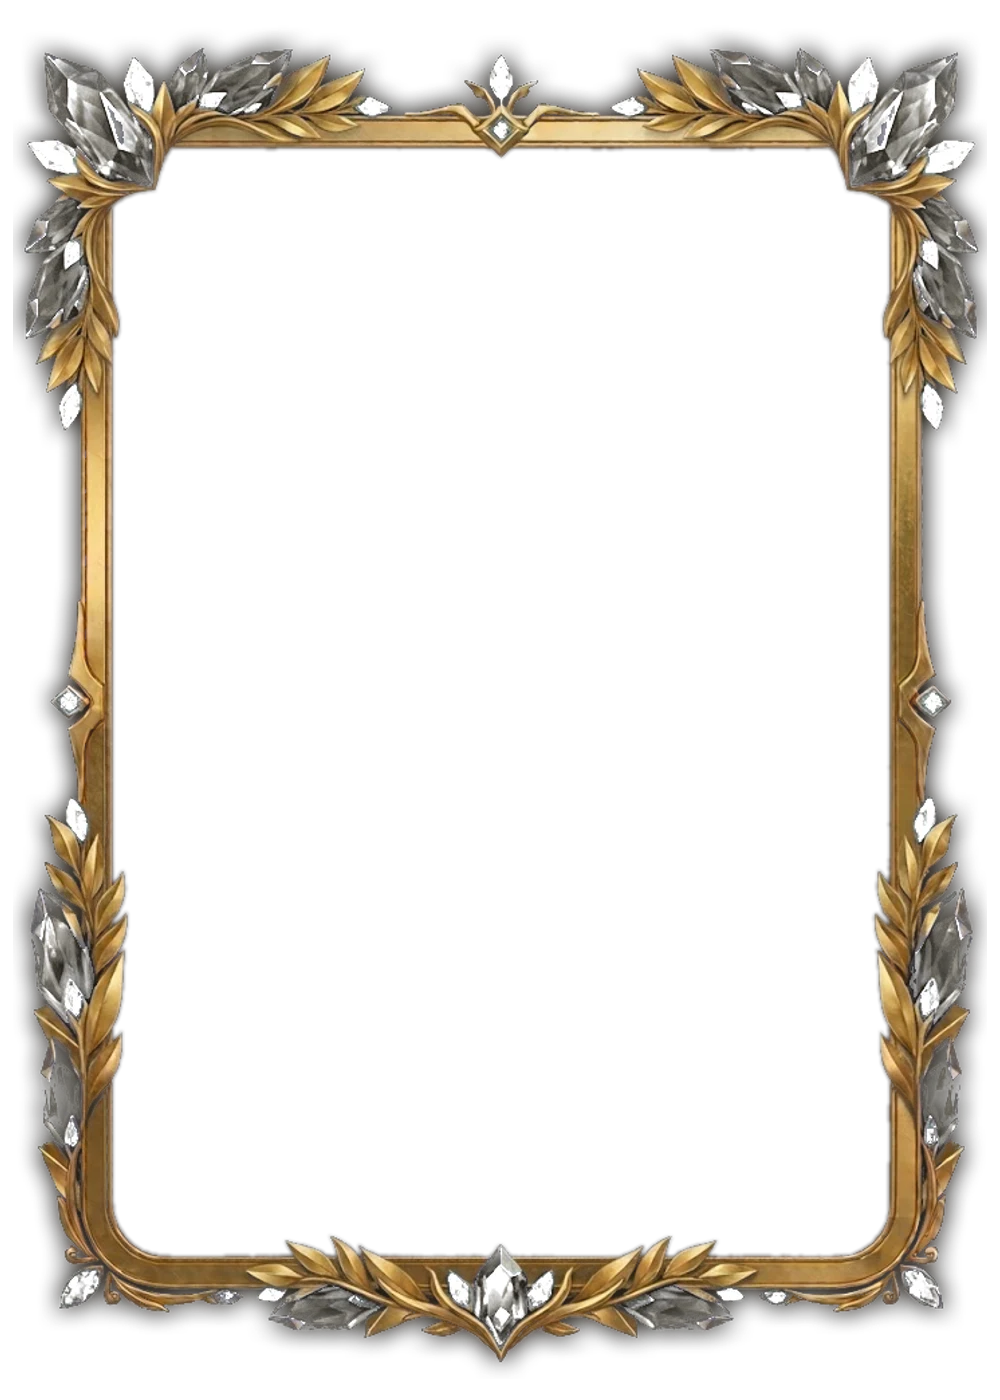
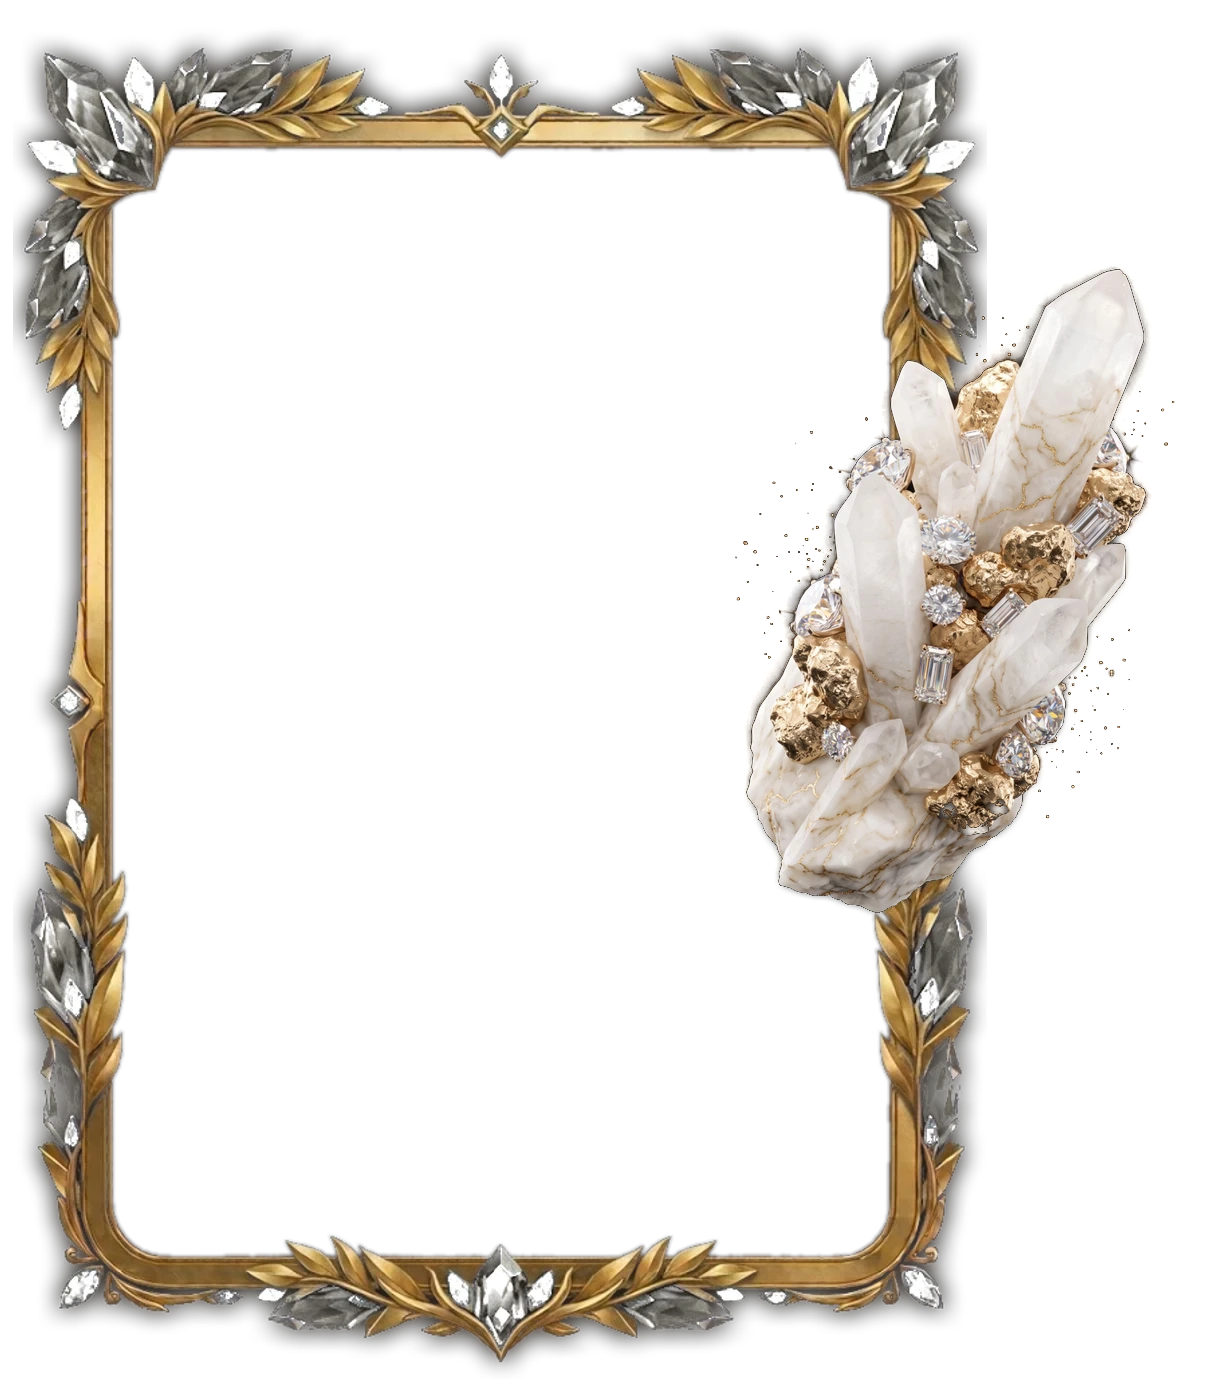
add 3D renders to Icone and Rubi and promote them to epic
Claude-Session: https://claude.ai/code/session_01N8XLJoyFiwvoZXFrULaieo

diff --git a/components/cancha-card.tsx b/components/cancha-card.tsx
@@ -189,7 +189,7 @@ const ROUPAS = {
   esmeralda: { background: "premium-esmeralda", overflow: "premium-esmeralda-vaza", overflowWidth: 774 / 714, artFrame: true, trim: null, metal: ["#0f6b45", "#0f6b45", "#5fd39a"], accent: "#5fd39a", light: "160 255 200", bar: "#03140c", muted: "#9fffc8", sparkles: false, neon: "#2dffa0" },
   safira: { background: "premium-safira", overflow: "premium-safira-vaza", overflowWidth: 774 / 714, artFrame: true, trim: null, metal: ["#1d4fa8", "#1d4fa8", "#7fb0ff"], accent: "#7fb0ff", light: "170 200 255", bar: "#040a1c", muted: "#a9c8ff", sparkles: false, neon: "#36a6ff" },
   ametista: { background: "premium-ametista", overflow: "premium-ametista-vaza", overflowWidth: 774 / 714, artFrame: true, trim: null, metal: ["#5b2fa0", "#5b2fa0", "#b99bff"], accent: "#b99bff", light: "220 190 255", bar: "#0e0620", muted: "#d2bcff", sparkles: false, neon: "#c46bff" },
-  rubi: { background: "premium-rubi-fino", overflow: "premium-rubi-fino-vaza", artInset: { x: 1.43, y: 1.02, radius: 7.5 }, window: "ring", windowInset: { x: 1.43, y: 1.02 }, windowRadius: 7.5, contentPad: 6.25, artFrame: true, trim: null, metal: ["#9b1530", "#9b1530", "#ff8fa3"], accent: "#ff8fa3", light: "255 190 200", bar: "#1a0309", muted: "#ffb3c0", sparkles: false, neon: "#ff2f66" },
+  rubi: { background: "premium-rubi-fino", overflow: "premium-rubi-fino-vaza", overflowWidth: 1.21, artInset: { x: 1.43, y: 1.02, radius: 7.5 }, window: "ring", windowInset: { x: 1.43, y: 1.02 }, windowRadius: 7.5, contentPad: 6.25, artFrame: true, trim: null, metal: ["#9b1530", "#9b1530", "#ff8fa3"], accent: "#ff8fa3", light: "255 190 200", bar: "#1a0309", muted: "#ffb3c0", sparkles: false, neon: "#ff2f66" },
   // Ícone: branco creme com moldura de ouro claro, lembrando a carta Icon do FIFA (2026-10-29).
   // Natal campeão = carta do CAMPEÃO DO MÊS (melhor jogador do mês) de dezembro de 2026 (decisão do dono do app em 2026-11-05; GUARDADA: falta ligar em `CAMPEAO_MES`/`awardRoupa` quando o tema de dezembro existir em `CARD_THEMES`): malha de tricô verde natalina
   // e moldura de ouro com pinheiro, laços, sinos e azevinho por fora (arte do dono em `prototipos/natal-campeao-*-dono.jpg`, montada por `montar-carta.cjs`). Mesmo padrão da Rubi e da Ícone.
@@ -217,7 +217,7 @@ const ROUPAS = {
   // Maré (2026-11-05, teste do kit em camadas: fundo e borda feitos no Gemini com o gabarito 5:7, montados por `prototipos/montar-carta.cjs`):
   // tromba-d'água num mar de enchente e moldura de ouro com a "capa" de lâminas nos cantos de baixo. Janela padrão (`ring`, 64,5 px da caixa).
   mare: { background: "premium-mare", overflow: "premium-mare-vaza", artInset: { x: 1.43, y: 1.02, radius: 7.5 }, window: "ring", windowInset: { x: 1.43, y: 1.02 }, windowRadius: 7.5, contentPad: 6.25, artFrame: true, clean: true, trim: null, metal: ["#b8902f", "#b8902f", "#fff1c2"], accent: "#f3d27a", light: "120 230 255", bar: "#031018", muted: "#bfeeff", sparkles: false, neon: "#f3d27a" },
-  icone: { background: "premium-icone-fino", clean: true, overflow: "premium-icone-fino-vaza", artInset: { x: 1.43, y: 1.02, radius: 7.5 }, window: "ring", windowInset: { x: 1.43, y: 1.02 }, windowRadius: 7.5, contentPad: 6.25, artFrame: true, trim: null, metal: ["#c9a24e", "#c9a24e", "#fff4d6"], accent: "#e2c06e", light: "255 240 200", bar: "#1a140a", muted: "#f0dfb5", sparkles: false, neon: "#ffcf4d" },
+  icone: { background: "premium-icone-fino", clean: true, overflow: "premium-icone-fino-vaza", overflowWidth: 1.21, artInset: { x: 1.43, y: 1.02, radius: 7.5 }, window: "ring", windowInset: { x: 1.43, y: 1.02 }, windowRadius: 7.5, contentPad: 6.25, artFrame: true, trim: null, metal: ["#c9a24e", "#c9a24e", "#fff4d6"], accent: "#e2c06e", light: "255 240 200", bar: "#1a140a", muted: "#f0dfb5", sparkles: false, neon: "#ffcf4d" },
   // Aurora (2026-11-04, GUARDADA: o dono gostou mas pediu para não aplicar ainda; não está em `CARD_SKINS`, então não aparece na Loja.
   // Para usar: entrada em `CARD_SKINS` (sugestão nível 14, 1600 CC), `case` em `skinRoupa` e `SKIN_CLASSES`): aurora boreal renderizada pixel a pixel em código (`prototipos/premium-aurora.cjs`), fio de ouro, respiro preto,
   // tubo de neon verde-água por fora e a Estrela Polar no topo; a luz da aurora vaza sobre a moldura. Concêntrica: windowRadius = raio da carta − o aro.

diff --git a/lib/packs.ts b/lib/packs.ts
@@ -37,8 +37,8 @@ export const SKIN_RARITIES: Readonly<Record<string, PackRarity>> = {
   esmeralda: "epica",
   safira: "epica",
   ametista: "epica",
-  rubi: "rara",
-  icone: "rara",
+  rubi: "epica",
+  icone: "epica",
   lobisomem: "rara",
   vampiro: "rara",
   nuvem: "epica",

diff --git a/CLAUDE.md b/CLAUDE.md
@@ -26,7 +26,7 @@ Design mobile-first é inegociável: a interação principal (dar notas no vesti
 
 **OVR de carreira e gols no Ataque (2026-11-08, decisão do dono do app; na `main` e migration `20261108140000_career_ovr.sql` aplicada em produção):** o OVR da carta deixou de ser calculado sobre todas as notas juntas e passou a ser a **média simples dos OVRs de cada rodada** (sem tirar nenhuma; em cada rodada a maior e a menor nota já saem, `counted_evaluations`), e cada atributo é a média dele nas rodadas (`computeCareerCard` em `lib/ovr.ts`; `computeOvr` ficou como o OVR de UMA rodada, usado na nota da rodada e nos pontos do ranking). **Cada gol confirmado soma +1 no Ataque** (VEL e CHU, teto de +10, `GOAL_ATTACK_BONUS_*`, goleiro fora); o OVR sobe o quanto o Ataque maior faz subir a média das 2 maiores estatísticas. O OVR da carta e as 3 estatísticas exibidas podem diferir em 1 ponto. A carta congelada dos prêmios (`compute_match_awards`) segue a mesma conta, com o OVR saindo de `card_ovr` dos atributos. `buildPlayers` e `getOvrByMember` recebem os gols confirmados (`getConfirmedGoalsByMember` em `lib/match-goals.ts`). Vale para o histórico (OVRs de hoje mudam ao entrar). **Desempate das premiações individuais (migration `20261108130000`, em produção, rodadas a partir de 2026-11-08):** empate na nota → maior OVR geral → maior média de todas as notas → todos ganham; Bola Murcha inverso; pacotes seguem com "empate igual". Testes: `supabase/tests/awards-tiebreak/tiebreak.mjs`.
 
-**Pacotes de skins (2026-11-08, em construção na branch `feat/pacotes`, TUDO DESLIGADO em produção; design em `docs/superpowers/specs/2026-11-07-pacotes-design.md` e plano em `docs/superpowers/plans/2026-11-07-pacotes-plan.md`, ambos na branch `docs/pacotes-design`):** ao fechar a rodada, quem jogou ganha 1 pacote lacrado com 1 skin (só visual/coleção, não muda a pelada). Banco (migration `20261108120000_packs.sql`, aplicada em produção desligada): `groups.packs_enabled` (padrão falso, só o `/admin` liga, junto com `pack_min_players`, padrão 10), tabelas sem acesso direto (`pack_sets` por mês, `pack_tier_odds`, `pack_config`, `pack_rarity_coins`, `packs`), sorteio dentro de `close_match` (`draw_round_packs`: faixas A Craque, B Destaque, C Pelada, D Reserva pela nota da rodada, proteção contra azar `m = 1 + (M-1)·t²`, garantia nos últimos 7 dias, chance real gravada por pacote), `get_my_packs`, `count_my_unopened_packs` e `open_pack` (idempotente; skin repetida vira CC: comum 10, rara 20, épica 50, lendária 100; posse em `card_skin_purchases` com `source = 'pack'`). Testes: `supabase/tests/packs/packs.mjs` e `seed-script.mjs`. App: `lib/packs.ts`, `app/loja/_data-access/get-my-packs.ts`, `open-pack.ts`, **Loja → Meus pacotes** (`my-packs.tsx`, linhas compactas, 3 visíveis e "Mostrar todos"), pontinho âmbar no ícone da Loja (`PackDot` em `main-nav.tsx`, `lib/pack-count.ts`), "Você ganhou o Pacote" em "Sua rodada" (`pack-reward.tsx`, Abrir agora / Guardar), abertura em tela cheia (`components/pack-stage.tsx`, protótipo aprovado; `pack-opener.tsx`; modo `pure` da `CanchaCard`; tampão escuro em degradê atrás do capuz da Destino), raridade em Eu → Minhas cartas e moedas das repetidas somadas ao saldo (`getLeague`). Capinha provisória por faixa em `components/pack-cover.tsx`; guia do prompt do Gemini em `docs/superpowers/specs/2026-11-08-capinhas-pacote-prompt.md`. Scripts de teste: `supabase/scripts/seed-test-packs.sql` e `cleanup-test-packs.sql` (precisam da pelada "Teste Pacotes" criada no `/admin`). **Decisão do dono do app em 2026-11-08: só testar em produção depois de terminar o design de todas as cartas e das capinhas dos pacotes; lançamento planejado para 1/12 (versão 3.21.0). **Regras de raridade das skins de pacote (decisão do dono do app em 2026-11-08):** cada nível acrescenta algo que o anterior não tem. **Comum:** borda simples (fio ou tubo) e fundo padrão ou textura leve. **Rara:** borda trabalhada de leve e fundo com pattern próprio. **Épica:** borda trabalhada, fundo sofisticado e **1 peça em render 3D vazando** da carta (animação opcional, como raios acendendo). **Lendária:** borda trabalhada com enfeites, fundo sofisticado (ferro, metal), **render 3D vazando**, **elementos flutuando em volta** (círculo atrás e runas ou cacos) e animação; só 1 por conjunto e é o único nível com flutuantes (também o mais pesado para o iPhone). Peças de arte no Gemini: comum 1, rara 2 (fundo e borda), épica 3 (fundo, borda e render), lendária 3 mais 3 a 5 flutuantes. **Comuns e raras podem ser recolores do mesmo desenho** (coluna `pack_sets.design`), como Esmeralda, Safira, Ametista e Rubi. Régua com o que existe: Destino lendária; Lenda do Trovão e Relâmpago entre épica e lendária; os cristais (Safira, Ametista, Esmeralda) seriam épicas pela regra; Rubi e Ícone (louros, sem vazar) raras. **Como mostrar a raridade (2026-11-09):** por enquanto só **escrita** embaixo do nome da carta na Loja e em Eu → Minhas cartas (`CardSkinTile`, `SKIN_RARITIES` e `getSkinRarity` em `lib/packs.ts`); a ideia do cristal embaixo da carta (three.js, ray tracing, `scripts/rarity-gems/`, imagens guardadas em `scripts/rarity-gems/saida/`) foi **descartada pelo dono do app** por ficar longe/estranha; a representação nas outras telas (Início, Carreira, mesa tática, ranking) ainda será definida por ele (a skin não mostra nada fora da Loja e de Eu). **Verso da carta e giro (2026-11-09):** a raridade da skin aparece no **verso da carta** (`components/card-back.tsx`: placa fosca na cor da raridade, fio fino, quadra de futsal desenhada em código na proporção real de 40 x 20 m e simétrica, plaquinhas com o nome da skin e da raridade e, no centro, a moeda com a logo, arte do Gemini em quatro cores em `public/cartas/versos/moeda-<raridade>.webp`, gerada por `scripts/card-backs/make-coins.mjs`). O giro mora no **visualizador de carta** (`components/card-viewer.tsx`, `CardViewer`; decisão do dono do app em 2026-11-09, sem botão de virar): tocar na carta em **Início, Carreira, Eu e nas miniaturas de Loja/Eu** abre um modal com a carta grande, que **vira ao toque** para o verso da raridade (só `transform`, em duas metades, sem `backface-visibility`; só skins com raridade), e embaixo os detalhes (OVR, patente, as 3 estatísticas e a skin com a raridade). Mesa tática, ranking, Artilharia e Comunidade ficam como eram (sem giro). Na abertura do pacote o verso é o mesmo, com os nomes em branco (a skin é segredo). A legenda escrita da raridade (`RarityLabel` com o cristal do three.js) fica só na Loja e em Eu. Prompts do Gemini em `docs/superpowers/specs/2026-11-09-versos-cartas-prompt.md`. Dezembro decidido em 2026-11-08: as 5 cartas de Natal das premiações individuais ficam como estão (sem repaginar) e os pacotes são todos da temática do filme (só alusões originais); a Loja mistura Natal e filme, a decidir. Faltam: artes das 4 capinhas e o conjunto real de dezembro (skins e raridades, tudo do filme).**
+**Pacotes de skins (2026-11-08, em construção na branch `feat/pacotes`, TUDO DESLIGADO em produção; design em `docs/superpowers/specs/2026-11-07-pacotes-design.md` e plano em `docs/superpowers/plans/2026-11-07-pacotes-plan.md`, ambos na branch `docs/pacotes-design`):** ao fechar a rodada, quem jogou ganha 1 pacote lacrado com 1 skin (só visual/coleção, não muda a pelada). Banco (migration `20261108120000_packs.sql`, aplicada em produção desligada): `groups.packs_enabled` (padrão falso, só o `/admin` liga, junto com `pack_min_players`, padrão 10), tabelas sem acesso direto (`pack_sets` por mês, `pack_tier_odds`, `pack_config`, `pack_rarity_coins`, `packs`), sorteio dentro de `close_match` (`draw_round_packs`: faixas A Craque, B Destaque, C Pelada, D Reserva pela nota da rodada, proteção contra azar `m = 1 + (M-1)·t²`, garantia nos últimos 7 dias, chance real gravada por pacote), `get_my_packs`, `count_my_unopened_packs` e `open_pack` (idempotente; skin repetida vira CC: comum 10, rara 20, épica 50, lendária 100; posse em `card_skin_purchases` com `source = 'pack'`). Testes: `supabase/tests/packs/packs.mjs` e `seed-script.mjs`. App: `lib/packs.ts`, `app/loja/_data-access/get-my-packs.ts`, `open-pack.ts`, **Loja → Meus pacotes** (`my-packs.tsx`, linhas compactas, 3 visíveis e "Mostrar todos"), pontinho âmbar no ícone da Loja (`PackDot` em `main-nav.tsx`, `lib/pack-count.ts`), "Você ganhou o Pacote" em "Sua rodada" (`pack-reward.tsx`, Abrir agora / Guardar), abertura em tela cheia (`components/pack-stage.tsx`, protótipo aprovado; `pack-opener.tsx`; modo `pure` da `CanchaCard`; tampão escuro em degradê atrás do capuz da Destino), raridade em Eu → Minhas cartas e moedas das repetidas somadas ao saldo (`getLeague`). Capinha provisória por faixa em `components/pack-cover.tsx`; guia do prompt do Gemini em `docs/superpowers/specs/2026-11-08-capinhas-pacote-prompt.md`. Scripts de teste: `supabase/scripts/seed-test-packs.sql` e `cleanup-test-packs.sql` (precisam da pelada "Teste Pacotes" criada no `/admin`). **Decisão do dono do app em 2026-11-08: só testar em produção depois de terminar o design de todas as cartas e das capinhas dos pacotes; lançamento planejado para 1/12 (versão 3.21.0). **Regras de raridade das skins de pacote (decisão do dono do app em 2026-11-08):** cada nível acrescenta algo que o anterior não tem. **Comum:** borda simples (fio ou tubo) e fundo padrão ou textura leve. **Rara:** borda trabalhada de leve e fundo com pattern próprio. **Épica:** borda trabalhada, fundo sofisticado e **1 peça em render 3D vazando** da carta (animação opcional, como raios acendendo). **Lendária:** borda trabalhada com enfeites, fundo sofisticado (ferro, metal), **render 3D vazando**, **elementos flutuando em volta** (círculo atrás e runas ou cacos) e animação; só 1 por conjunto e é o único nível com flutuantes (também o mais pesado para o iPhone). Peças de arte no Gemini: comum 1, rara 2 (fundo e borda), épica 3 (fundo, borda e render), lendária 3 mais 3 a 5 flutuantes. **Comuns e raras podem ser recolores do mesmo desenho** (coluna `pack_sets.design`), como Esmeralda, Safira, Ametista e Rubi. Régua com o que existe: Destino lendária; Lenda do Trovão e Relâmpago entre épica e lendária; os cristais (Safira, Ametista, Esmeralda) seriam épicas pela regra; Rubi e Ícone épicas (2026-11-09: ganharam um render 3D vazando pela direita, `prototipos/render-vaza.cjs`, porque custam mais que as outras épicas; louros dourados na borda). **Como mostrar a raridade (2026-11-09):** por enquanto só **escrita** embaixo do nome da carta na Loja e em Eu → Minhas cartas (`CardSkinTile`, `SKIN_RARITIES` e `getSkinRarity` em `lib/packs.ts`); a ideia do cristal embaixo da carta (three.js, ray tracing, `scripts/rarity-gems/`, imagens guardadas em `scripts/rarity-gems/saida/`) foi **descartada pelo dono do app** por ficar longe/estranha; a representação nas outras telas (Início, Carreira, mesa tática, ranking) ainda será definida por ele (a skin não mostra nada fora da Loja e de Eu). **Verso da carta e giro (2026-11-09):** a raridade da skin aparece no **verso da carta** (`components/card-back.tsx`: placa fosca na cor da raridade, fio fino, quadra de futsal desenhada em código na proporção real de 40 x 20 m e simétrica, plaquinhas com o nome da skin e da raridade e, no centro, a moeda com a logo, arte do Gemini em quatro cores em `public/cartas/versos/moeda-<raridade>.webp`, gerada por `scripts/card-backs/make-coins.mjs`). O giro mora no **visualizador de carta** (`components/card-viewer.tsx`, `CardViewer`; decisão do dono do app em 2026-11-09, sem botão de virar): tocar na carta em **Início, Carreira, Eu e nas miniaturas de Loja/Eu** abre um modal com a carta grande, que **vira ao toque** para o verso da raridade (só `transform`, em duas metades, sem `backface-visibility`; só skins com raridade), e embaixo os detalhes (OVR, patente, as 3 estatísticas e a skin com a raridade). Mesa tática, ranking, Artilharia e Comunidade ficam como eram (sem giro). Na abertura do pacote o verso é o mesmo, com os nomes em branco (a skin é segredo). A legenda escrita da raridade (`RarityLabel` com o cristal do three.js) fica só na Loja e em Eu. Prompts do Gemini em `docs/superpowers/specs/2026-11-09-versos-cartas-prompt.md`. Dezembro decidido em 2026-11-08: as 5 cartas de Natal das premiações individuais ficam como estão (sem repaginar) e os pacotes são todos da temática do filme (só alusões originais); a Loja mistura Natal e filme, a decidir. Faltam: artes das 4 capinhas e o conjunto real de dezembro (skins e raridades, tudo do filme).**
 
 **Foco do produto:** é um "fantasy" da pelada: nota, carta, OVR e sorteio. Confirmação de presença e placar ficam no WhatsApp; não construa gestão de pelada além do necessário.
 

diff --git a/.claude/rules/design-system.md b/.claude/rules/design-system.md
@@ -71,7 +71,7 @@ Desde 2026-10-29 todas as cartas usam a `CanchaCard` (o `PlayerCard` a chama). A
 
 ## 🎴 Raridade das skins de pacote (2026-11-08)
 
-cada nível acrescenta algo que o anterior não tem. **Comum:** borda simples (fio ou tubo) e fundo padrão ou textura leve. **Rara:** borda trabalhada de leve e fundo com pattern próprio. **Épica:** borda trabalhada, fundo sofisticado e **1 peça em render 3D vazando** da carta (animação opcional, como raios acendendo). **Lendária:** borda trabalhada com enfeites, fundo sofisticado (ferro, metal), **render 3D vazando**, **elementos flutuando em volta** (círculo atrás e runas ou cacos) e animação; só 1 por conjunto e é o único nível com flutuantes (também o mais pesado para o iPhone). Peças de arte no Gemini: comum 1, rara 2 (fundo e borda), épica 3 (fundo, borda e render), lendária 3 mais 3 a 5 flutuantes. **Comuns e raras podem ser recolores do mesmo desenho** (coluna `pack_sets.design`), como Esmeralda, Safira, Ametista e Rubi. Régua com o que existe: Destino lendária; Lenda do Trovão e Relâmpago entre épica e lendária; os cristais (Safira, Ametista, Esmeralda) seriam épicas pela regra; Rubi e Ícone (louros, sem vazar) raras.
+cada nível acrescenta algo que o anterior não tem. **Comum:** borda simples (fio ou tubo) e fundo padrão ou textura leve. **Rara:** borda trabalhada de leve e fundo com pattern próprio. **Épica:** borda trabalhada, fundo sofisticado e **1 peça em render 3D vazando** da carta (animação opcional, como raios acendendo). **Lendária:** borda trabalhada com enfeites, fundo sofisticado (ferro, metal), **render 3D vazando**, **elementos flutuando em volta** (círculo atrás e runas ou cacos) e animação; só 1 por conjunto e é o único nível com flutuantes (também o mais pesado para o iPhone). Peças de arte no Gemini: comum 1, rara 2 (fundo e borda), épica 3 (fundo, borda e render), lendária 3 mais 3 a 5 flutuantes. **Comuns e raras podem ser recolores do mesmo desenho** (coluna `pack_sets.design`), como Esmeralda, Safira, Ametista e Rubi. Régua com o que existe: Destino lendária; Lenda do Trovão e Relâmpago entre épica e lendária; os cristais (Safira, Ametista, Esmeralda) seriam épicas pela regra; Rubi e Ícone épicas (2026-11-09: render 3D vazando pela direita, arte do Gemini, `prototipos/render-vaza.cjs`, `overflowWidth` 1.21).
 
 ## 🃏 Carta do jogador (desenho antigo, `LegacyPlayerCard`)
 
